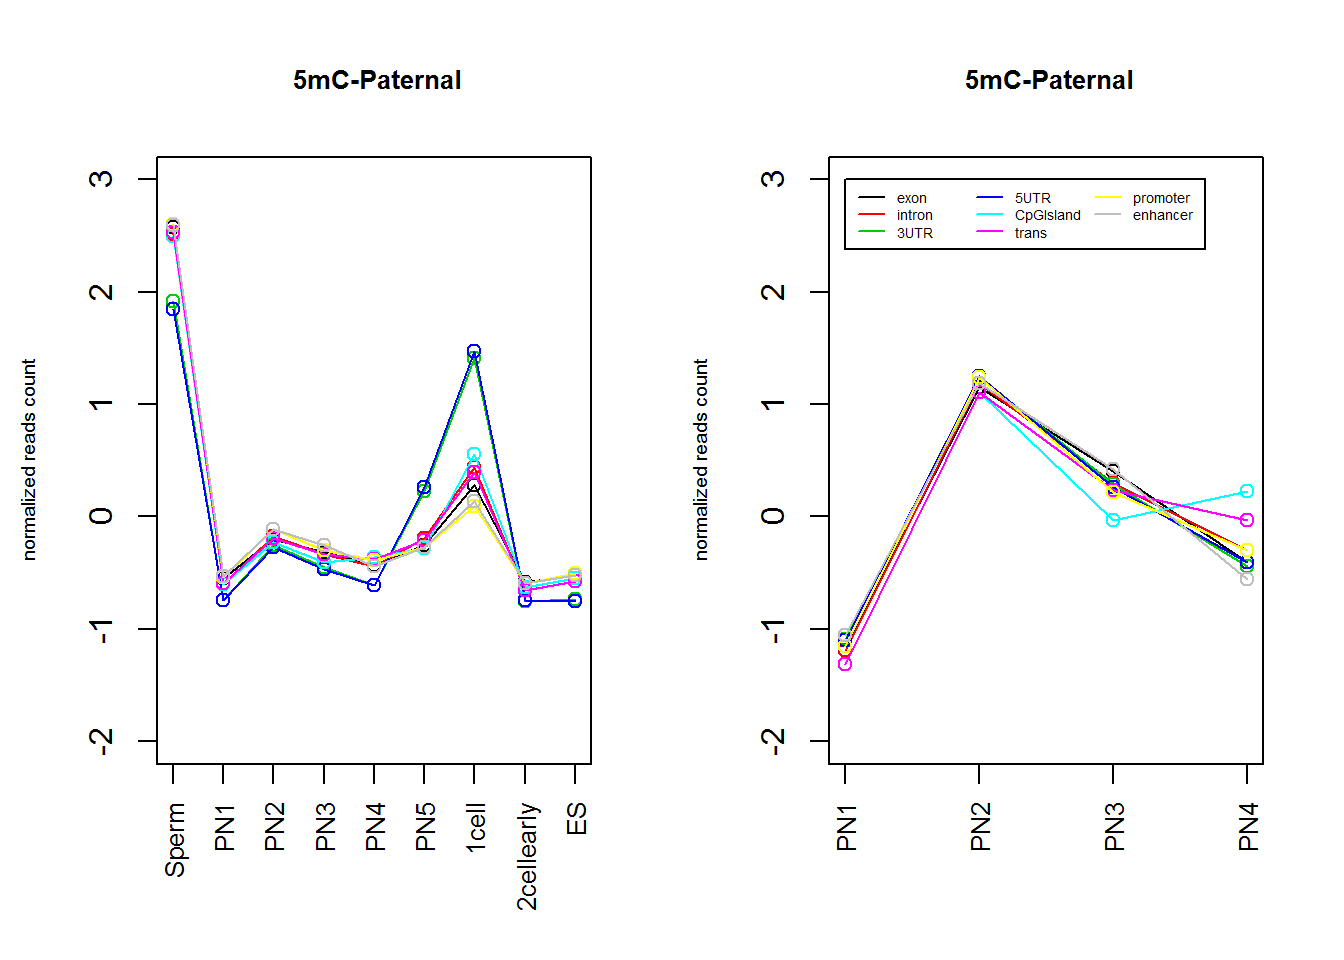
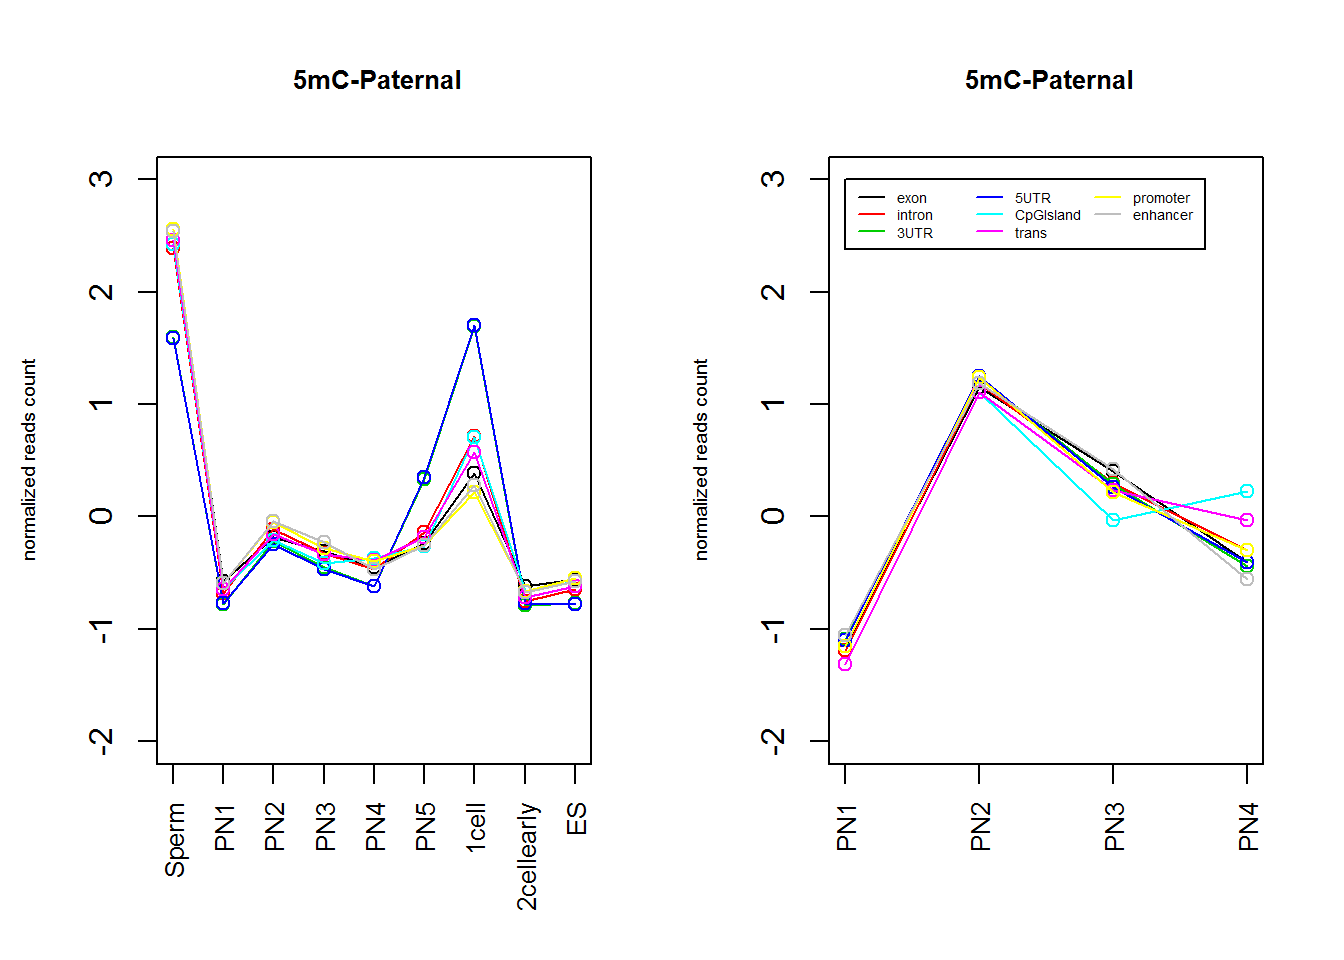
May22018

Changed region(s): [[0.1562, 0.3438, 0.375, 0.625], [0.125, 0.2188, 0.1562, 0.5312], [0.375, 0.5625, 0.4375, 0.6562]]

diff --git a/docs/Sample-with-spikein.html b/docs/Sample-with-spikein.html
@@ -314,10 +314,10 @@ div.tocify {
 shared across the workflowr files. -->
 <!-- Update knitr chunk options -->
 <!-- Insert the date the file was last updated -->
-<p><strong>Last updated:</strong> 2018-04-27</p>
+<p><strong>Last updated:</strong> 2018-05-02</p>
 <!-- Insert the code version (Git commit SHA1) if Git repository exists and R
  package git2r is installed -->
-<p><strong>Code version:</strong> b66d409</p>
+<p><strong>Code version:</strong> 6af6677</p>
 <!-- Add your analysis here -->
 <p>All analysiz have been adjusted with spike in sample.</p>
 <div id="rep1-20180113" class="section level2">

diff --git a/docs/5mC5hmC.html b/docs/5mC5hmC.html
@@ -314,10 +314,10 @@ div.tocify {
 shared across the workflowr files. -->
 <!-- Update knitr chunk options -->
 <!-- Insert the date the file was last updated -->
-<p><strong>Last updated:</strong> 2018-05-01</p>
+<p><strong>Last updated:</strong> 2018-05-02</p>
 <!-- Insert the code version (Git commit SHA1) if Git repository exists and R
  package git2r is installed -->
-<p><strong>Code version:</strong> 0bb0cc4</p>
+<p><strong>Code version:</strong> 6af6677</p>
 <!-- Add your analysis here -->
 <div id="hmc" class="section level2">
 <h2>5hmC</h2>
